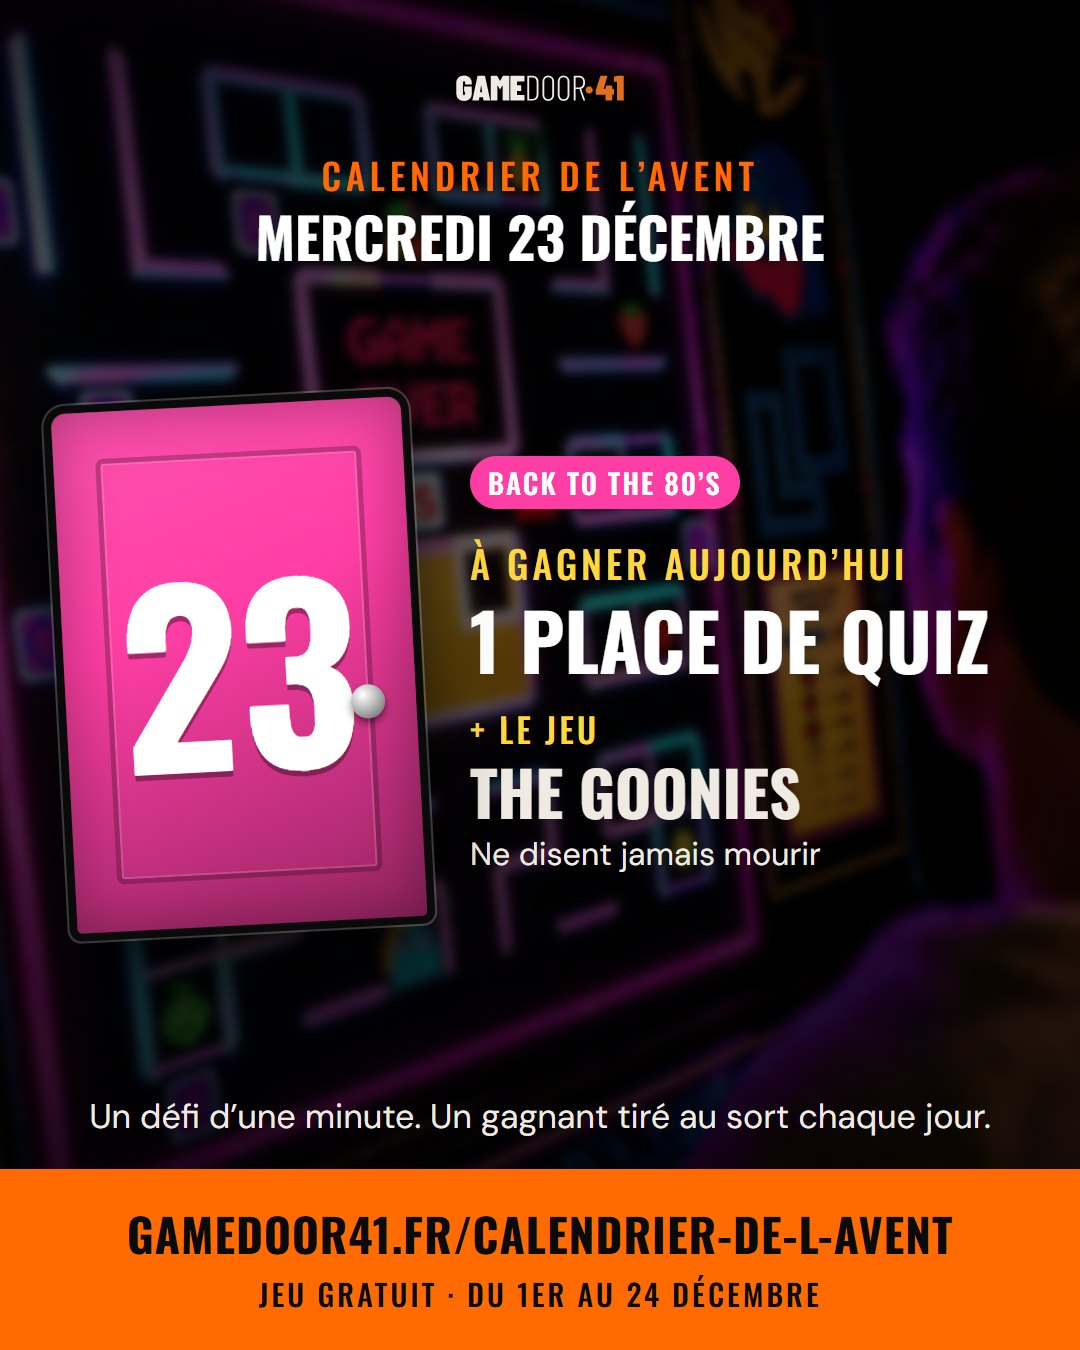
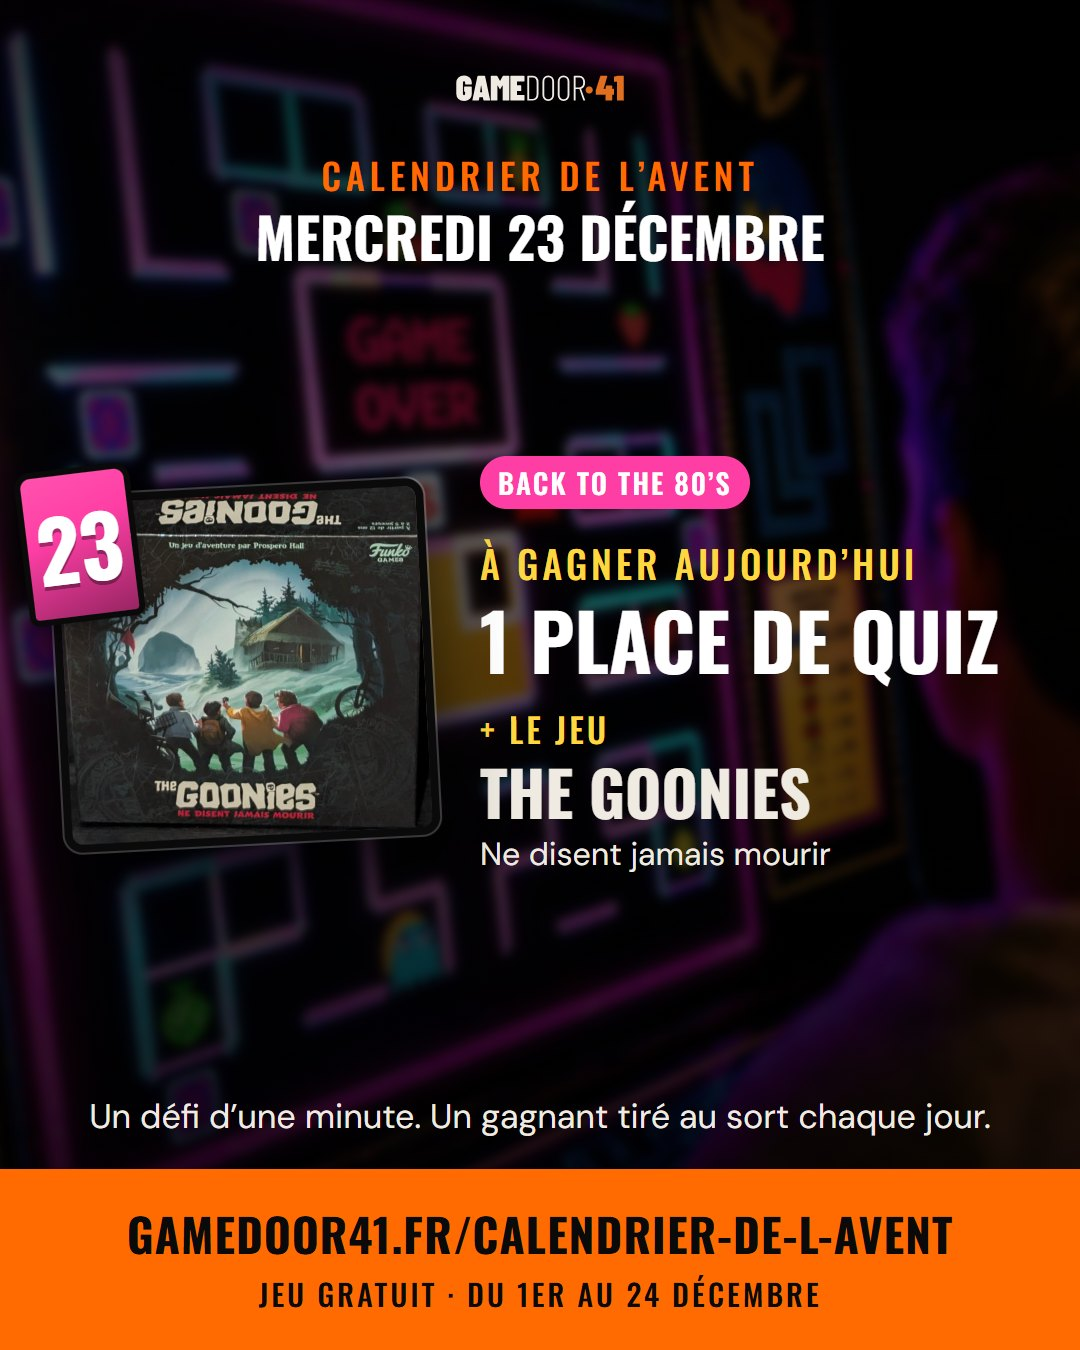
test(avent): les images des jeux et des lots
- img/avent/jeux/ : photos de la boîte (E.T., Retour vers le futur, The Goonies : photos
  maison) et vignettes provisoires pour les 9 autres jeux et la DeLorean
- lots-2026.mjs : image de chaque jeu et de chaque lot (VERSION_IMAGES à augmenter quand on
  remplace une photo : /img/* est en cache immuable)
- page : image dans chaque carte des lots et des jeux, et dans « À gagner aujourd'hui »
- visuels des réseaux sociaux : la boîte du jeu remplace la porte quand on a une vraie photo

Page test seulement : ne pas fusionner.

Changed region(s): [[0.0, 0.28, 0.9167, 0.7156]]

diff --git a/calendrier-de-l-avent/index.html b/calendrier-de-l-avent/index.html
@@ -15,7 +15,7 @@
   <link rel="preconnect" href="https://fonts.gstatic.com" crossorigin>
   <link rel="preload" as="style" href="https://fonts.googleapis.com/css2?family=Oswald:wght@400;500;600;700&family=DM+Sans:ital,wght@0,400;0,500;0,700;1,400&display=swap" onload="this.onload=null;this.rel='stylesheet'"><noscript><link rel="stylesheet" href="https://fonts.googleapis.com/css2?family=Oswald:wght@400;500;600;700&family=DM+Sans:ital,wght@0,400;0,500;0,700;1,400&display=swap"></noscript>
   <link rel="stylesheet" href="/css/style.css?v=2ecc6a2b">
-  <link rel="stylesheet" href="/css/calendrier-avent.css?v=test6">
+  <link rel="stylesheet" href="/css/calendrier-avent.css?v=test7">
 </head>
 <body>
 
@@ -114,25 +114,25 @@
         <!-- lots:debut (écrit par avent-src/ecrire-lots.mjs à partir de avent-src/lots-2026.mjs : ne pas modifier ici) -->
         <div class="section-header"><p class="kicker">Les lots</p><h2>Un gagnant chaque jour, et 12 cadeaux en plus</h2></div>
         <ul class="av-lots">
-          <li class="av-carte av-lot av-lot--orange"><p class="av-lot-quand">Chaque jour</p><h3>1 place de quiz offerte</h3><p>Un gagnant tiré au sort parmi les joueurs du jour, que la réponse soit juste ou non. Une place pour une session de quiz Buzz Your Brain, de 4 à 16 candidats.</p></li>
-          <li class="av-carte av-lot av-lot--or"><p class="av-lot-quand">★ dimanches 6, 13 et 20, jeudi 24 décembre</p><h3>1 place d’escape game offerte</h3><p>Les jours à étoile, la place de quiz devient une place d’escape game, dans la salle de votre choix : Garde à Vue, Psychiatric ou Back to the 80’s.</p></li>
-          <li class="av-carte av-lot av-lot--or"><p class="av-lot-quand">Le grand tirage</p><h3>Une DeLorean radio-commandée</h3><p>La voiture de Retour vers le futur, à piloter à la télécommande. Chaque ticket gagné pendant le mois est une chance de plus.</p></li>
-          <li class="av-carte av-lot av-lot--orange"><p class="av-lot-quand">Les 24 portes ouvertes</p><h3>Une session de quiz complète</h3><p>Un tirage réservé à celles et ceux qui ont ouvert les 24 portes : une session de quiz offerte pour 4 à 16 candidats, émission au choix.</p></li>
+          <li class="av-carte av-lot av-lot--orange"><figure class="av-lot-visuel av-lot-visuel--photo"><img src="/img/quiz/salle-quiz-buzzers-premier-plan-480w.jpg?v=1" alt="La salle du quiz Buzz Your Brain" loading="lazy" decoding="async"></figure><p class="av-lot-quand">Chaque jour</p><h3>1 place de quiz offerte</h3><p>Un gagnant tiré au sort parmi les joueurs du jour, que la réponse soit juste ou non. Une place pour une session de quiz Buzz Your Brain, de 4 à 16 candidats.</p></li>
+          <li class="av-carte av-lot av-lot--or"><figure class="av-lot-visuel av-lot-visuel--photo"><img src="/img/escape/salle-garde-a-vue-barreaux-poste-garde-480w.jpg?v=1" alt="La salle Garde à Vue" loading="lazy" decoding="async"></figure><p class="av-lot-quand">★ dimanches 6, 13 et 20, jeudi 24 décembre</p><h3>1 place d’escape game offerte</h3><p>Les jours à étoile, la place de quiz devient une place d’escape game, dans la salle de votre choix : Garde à Vue, Psychiatric ou Back to the 80’s.</p></li>
+          <li class="av-carte av-lot av-lot--or"><figure class="av-lot-visuel av-lot-visuel--objet"><img src="/img/avent/jeux/delorean.jpg?v=1" alt="La DeLorean radio-commandée" loading="lazy" decoding="async"></figure><p class="av-lot-quand">Le grand tirage</p><h3>Une DeLorean radio-commandée</h3><p>La voiture de Retour vers le futur, à piloter à la télécommande. Chaque ticket gagné pendant le mois est une chance de plus.</p></li>
+          <li class="av-carte av-lot av-lot--orange"><figure class="av-lot-visuel av-lot-visuel--photo"><img src="/img/quiz/salle-quiz-buzz-your-brain-vue-large-480w.jpg?v=1" alt="La salle du quiz" loading="lazy" decoding="async"></figure><p class="av-lot-quand">Les 24 portes ouvertes</p><h3>Une session de quiz complète</h3><p>Un tirage réservé à celles et ceux qui ont ouvert les 24 portes : une session de quiz offerte pour 4 à 16 candidats, émission au choix.</p></li>
         </ul>
         <h3 class="av-jeux-titre">11 jours, un jeu en plus de la place</h3>
         <p class="av-jeux-intro">Ces jours-là, le gagnant du jour repart avec sa place et avec un jeu, choisi dans l’univers de la porte.</p>
         <ol class="av-jeux">
-          <li class="av-jeu av-teinte--gav"><span class="av-jeu-porte" aria-hidden="true">1</span><div><p class="av-jeu-quand">mardi 1er décembre</p><h4>Dossiers Criminels Pocket <span>Qui a tué Isabella Vega ?</span></h4><p>Une enquête de poche : des indices, des suspects, un coupable à démasquer.</p><p class="av-jeu-place">Avec 1 place de quiz</p></div></li>
-          <li class="av-jeu av-teinte--psy"><span class="av-jeu-porte" aria-hidden="true">4</span><div><p class="av-jeu-quand">vendredi 4 décembre</p><h4>Black Stories</h4><p>50 énigmes macabres à résoudre en posant des questions. Réponses permises : oui ou non.</p><p class="av-jeu-place">Avec 1 place de quiz</p></div></li>
-          <li class="av-jeu av-teinte--quiz"><span class="av-jeu-porte" aria-hidden="true">6</span><div><p class="av-jeu-quand">★ dimanche 6 décembre</p><h4>Esquissé ? <span>Version 6 joueurs</span></h4><p>Le téléphone arabe en dessin : on dessine, on devine, et tout dérape.</p><p class="av-jeu-place">Avec 1 place d’escape game</p></div></li>
-          <li class="av-jeu av-teinte--80s"><span class="av-jeu-porte" aria-hidden="true">7</span><div><p class="av-jeu-quand">lundi 7 décembre</p><h4>E.T. l’Extra-Terrestre</h4><p>Jeu d’aventure coopératif : aidez E.T. à rentrer chez lui avant les agents. 2 à 4 joueurs, dès 10 ans, 30 minutes.</p><p class="av-jeu-place">Avec 1 place de quiz</p></div></li>
-          <li class="av-jeu av-teinte--quiz"><span class="av-jeu-porte" aria-hidden="true">10</span><div><p class="av-jeu-quand">jeudi 10 décembre</p><h4>Snort Funny <span>Le jeu « ingroinyable »</span></h4><p>Un jeu d’ambiance pour faire rire toute la table.</p><p class="av-jeu-place">Avec 1 place de quiz</p></div></li>
-          <li class="av-jeu av-teinte--gav"><span class="av-jeu-porte" aria-hidden="true">13</span><div><p class="av-jeu-quand">★ dimanche 13 décembre</p><h4>Sous Scellés <span>La Fille du Troisième</span></h4><p>Un dossier d’enquête à ouvrir chez vous : à vous de résoudre l’affaire.</p><p class="av-jeu-place">Avec 1 place d’escape game</p></div></li>
-          <li class="av-jeu av-teinte--80s"><span class="av-jeu-porte" aria-hidden="true">15</span><div><p class="av-jeu-quand">mardi 15 décembre</p><h4>Retour vers le futur</h4><p>Jeu d’aventure coopératif : faites monter la DeLorean à 88 miles à l’heure avant l’éclair. 2 à 4 joueurs, dès 10 ans, 50 minutes.</p><p class="av-jeu-place">Avec 1 place de quiz</p></div></li>
-          <li class="av-jeu av-teinte--psy"><span class="av-jeu-porte" aria-hidden="true">16</span><div><p class="av-jeu-quand">mercredi 16 décembre</p><h4>Scream, le jeu</h4><p>Jeu de société coopératif : faites équipe pour échapper au tueur masqué.</p><p class="av-jeu-place">Avec 1 place de quiz</p></div></li>
-          <li class="av-jeu av-teinte--quiz"><span class="av-jeu-porte" aria-hidden="true">18</span><div><p class="av-jeu-quand">vendredi 18 décembre</p><h4>Longueur d’onde</h4><p>Jeu d’ambiance en équipes : êtes-vous sur la même longueur d’onde que vos amis ?</p><p class="av-jeu-place">Avec 1 place de quiz</p></div></li>
-          <li class="av-jeu av-teinte--psy"><span class="av-jeu-porte" aria-hidden="true">20</span><div><p class="av-jeu-quand">★ dimanche 20 décembre</p><h4>Chucky, le jeu</h4><p>Jeu d’horreur coopératif : tous ensemble contre la poupée.</p><p class="av-jeu-place">Avec 1 place d’escape game</p></div></li>
-          <li class="av-jeu av-teinte--80s"><span class="av-jeu-porte" aria-hidden="true">23</span><div><p class="av-jeu-quand">mercredi 23 décembre</p><h4>The Goonies <span>Ne disent jamais mourir</span></h4><p>Jeu d’aventure : un joueur dirige les ennemis, les autres incarnent les Goonies. 2 à 5 joueurs, dès 12 ans, 50 minutes.</p><p class="av-jeu-place">Avec 1 place de quiz</p></div></li>
+          <li class="av-jeu av-teinte--gav"><figure class="av-jeu-visuel"><img src="/img/avent/jeux/dossiers-criminels.jpg?v=1" alt="La boîte du jeu Dossiers Criminels Pocket" loading="lazy" decoding="async"><span class="av-jeu-porte" aria-hidden="true">1</span></figure><div><p class="av-jeu-quand">mardi 1er décembre</p><h4>Dossiers Criminels Pocket <span>Qui a tué Isabella Vega ?</span></h4><p>Une enquête de poche : des indices, des suspects, un coupable à démasquer.</p><p class="av-jeu-place">Avec 1 place de quiz</p></div></li>
+          <li class="av-jeu av-teinte--psy"><figure class="av-jeu-visuel"><img src="/img/avent/jeux/black-stories.jpg?v=1" alt="La boîte du jeu Black Stories" loading="lazy" decoding="async"><span class="av-jeu-porte" aria-hidden="true">4</span></figure><div><p class="av-jeu-quand">vendredi 4 décembre</p><h4>Black Stories</h4><p>50 énigmes macabres à résoudre en posant des questions. Réponses permises : oui ou non.</p><p class="av-jeu-place">Avec 1 place de quiz</p></div></li>
+          <li class="av-jeu av-teinte--quiz"><figure class="av-jeu-visuel"><img src="/img/avent/jeux/esquisse.jpg?v=1" alt="La boîte du jeu Esquissé ?" loading="lazy" decoding="async"><span class="av-jeu-porte" aria-hidden="true">6</span></figure><div><p class="av-jeu-quand">★ dimanche 6 décembre</p><h4>Esquissé ? <span>Version 6 joueurs</span></h4><p>Le téléphone arabe en dessin : on dessine, on devine, et tout dérape.</p><p class="av-jeu-place">Avec 1 place d’escape game</p></div></li>
+          <li class="av-jeu av-teinte--80s"><figure class="av-jeu-visuel"><img src="/img/avent/jeux/et.jpg?v=1" alt="La boîte du jeu E.T. l’Extra-Terrestre" loading="lazy" decoding="async"><span class="av-jeu-porte" aria-hidden="true">7</span></figure><div><p class="av-jeu-quand">lundi 7 décembre</p><h4>E.T. l’Extra-Terrestre</h4><p>Jeu d’aventure coopératif : aidez E.T. à rentrer chez lui avant les agents. 2 à 4 joueurs, dès 10 ans, 30 minutes.</p><p class="av-jeu-place">Avec 1 place de quiz</p></div></li>
+          <li class="av-jeu av-teinte--quiz"><figure class="av-jeu-visuel"><img src="/img/avent/jeux/snort-funny.jpg?v=1" alt="La boîte du jeu Snort Funny" loading="lazy" decoding="async"><span class="av-jeu-porte" aria-hidden="true">10</span></figure><div><p class="av-jeu-quand">jeudi 10 décembre</p><h4>Snort Funny <span>Le jeu « ingroinyable »</span></h4><p>Un jeu d’ambiance pour faire rire toute la table.</p><p class="av-jeu-place">Avec 1 place de quiz</p></div></li>
+          <li class="av-jeu av-teinte--gav"><figure class="av-jeu-visuel"><img src="/img/avent/jeux/sous-scelles.jpg?v=1" alt="La boîte du jeu Sous Scellés : La Fille du Troisième" loading="lazy" decoding="async"><span class="av-jeu-porte" aria-hidden="true">13</span></figure><div><p class="av-jeu-quand">★ dimanche 13 décembre</p><h4>Sous Scellés <span>La Fille du Troisième</span></h4><p>Un dossier d’enquête à ouvrir chez vous : à vous de résoudre l’affaire.</p><p class="av-jeu-place">Avec 1 place d’escape game</p></div></li>
+          <li class="av-jeu av-teinte--80s"><figure class="av-jeu-visuel"><img src="/img/avent/jeux/retour-vers-le-futur.jpg?v=1" alt="La boîte du jeu Retour vers le futur" loading="lazy" decoding="async"><span class="av-jeu-porte" aria-hidden="true">15</span></figure><div><p class="av-jeu-quand">mardi 15 décembre</p><h4>Retour vers le futur</h4><p>Jeu d’aventure coopératif : faites monter la DeLorean à 88 miles à l’heure avant l’éclair. 2 à 4 joueurs, dès 10 ans, 50 minutes.</p><p class="av-jeu-place">Avec 1 place de quiz</p></div></li>
+          <li class="av-jeu av-teinte--psy"><figure class="av-jeu-visuel"><img src="/img/avent/jeux/scream.jpg?v=1" alt="La boîte du jeu Scream, le jeu" loading="lazy" decoding="async"><span class="av-jeu-porte" aria-hidden="true">16</span></figure><div><p class="av-jeu-quand">mercredi 16 décembre</p><h4>Scream, le jeu</h4><p>Jeu de société coopératif : faites équipe pour échapper au tueur masqué.</p><p class="av-jeu-place">Avec 1 place de quiz</p></div></li>
+          <li class="av-jeu av-teinte--quiz"><figure class="av-jeu-visuel"><img src="/img/avent/jeux/longueur-d-onde.jpg?v=1" alt="La boîte du jeu Longueur d’onde" loading="lazy" decoding="async"><span class="av-jeu-porte" aria-hidden="true">18</span></figure><div><p class="av-jeu-quand">vendredi 18 décembre</p><h4>Longueur d’onde</h4><p>Jeu d’ambiance en équipes : êtes-vous sur la même longueur d’onde que vos amis ?</p><p class="av-jeu-place">Avec 1 place de quiz</p></div></li>
+          <li class="av-jeu av-teinte--psy"><figure class="av-jeu-visuel"><img src="/img/avent/jeux/chucky.jpg?v=1" alt="La boîte du jeu Chucky, le jeu" loading="lazy" decoding="async"><span class="av-jeu-porte" aria-hidden="true">20</span></figure><div><p class="av-jeu-quand">★ dimanche 20 décembre</p><h4>Chucky, le jeu</h4><p>Jeu d’horreur coopératif : tous ensemble contre la poupée.</p><p class="av-jeu-place">Avec 1 place d’escape game</p></div></li>
+          <li class="av-jeu av-teinte--80s"><figure class="av-jeu-visuel"><img src="/img/avent/jeux/goonies.jpg?v=1" alt="La boîte du jeu The Goonies" loading="lazy" decoding="async"><span class="av-jeu-porte" aria-hidden="true">23</span></figure><div><p class="av-jeu-quand">mercredi 23 décembre</p><h4>The Goonies <span>Ne disent jamais mourir</span></h4><p>Jeu d’aventure : un joueur dirige les ennemis, les autres incarnent les Goonies. 2 à 5 joueurs, dès 12 ans, 50 minutes.</p><p class="av-jeu-place">Avec 1 place de quiz</p></div></li>
         </ol>
         <p class="av-note">Le tirage du jour se fait parmi les portes ouvertes le jour même. Le grand tirage et le tirage des 24 portes sont annoncés le 25 décembre à midi. Tickets : 1 par porte ouverte le jour même, 1 de plus si la réponse est juste, 1 pour une porte ouverte en retard. Places offertes valables 12 mois. Jeux à retirer à l’accueil, à Mondeville, avant le 28 février 2027. Lots non échangeables et non remboursables.</p>
         <!-- lots:fin -->
@@ -256,6 +256,6 @@
   </footer>
 
   <script defer src="/js/main.js?v=5d2c59a3"></script>
-  <script defer src="/js/calendrier-avent.js?v=test6"></script>
+  <script defer src="/js/calendrier-avent.js?v=test7"></script>
 </body>
 </html>

diff --git a/js/calendrier-avent.js b/js/calendrier-avent.js
@@ -203,7 +203,9 @@
     var quandLot = auj < 1 ? 'À gagner dès le 1er : ' : auj > 24 ? null : !repJour ? 'À gagner aujourd’hui : ' : repJour.leJour ? 'Au tirage de demain midi : ' : null;
     bandeau.appendChild(el('p', { class: 'av-joueur-msg' }, [
       moi ? el('strong', { text: 'Bonjour ' + moi.prenom + '. ' }) : null, message,
-      quandLot && porteLot && porteLot.lot ? el('span', { class: 'av-joueur-lot' }, [el('i', { html: ICONES.cadeau }), el('b', { text: quandLot }), porteLot.lot]) : null
+      quandLot && porteLot && porteLot.lot ? el('span', { class: 'av-joueur-lot' + (porteLot.image ? ' a-image' : '') }, porteLot.image
+        ? [el('img', { class: 'av-joueur-lot-img', src: porteLot.image, alt: '', width: '54', height: '54', decoding: 'async' }), el('span', {}, [el('b', { text: quandLot }), porteLot.lot])]
+        : [el('i', { html: ICONES.cadeau }), el('b', { text: quandLot }), porteLot.lot]) : null
     ]));
     if (moi) bandeau.appendChild(el('p', { class: 'av-joueur-compte' }, [
       el('span', {}, [el('b', { text: String(nb) }), (nb > 1 ? 'portes ouvertes' : 'porte ouverte') + ' sur 24']),
@@ -257,7 +259,11 @@
     ]);
   }
   function bandeLot(p, quand) {
-    return p.lot ? el('p', { class: 'av-lot-jour' }, [el('i', { html: ICONES.cadeau }), el('span', {}, [el('b', { text: quand }), p.lot])]) : null;
+    if (!p.lot) return null;
+    return el('p', { class: 'av-lot-jour' + (p.image ? ' a-image' : '') }, [
+      p.image ? el('img', { class: 'av-lot-jour-img', src: p.image, alt: '', width: '54', height: '54', decoding: 'async' }) : el('i', { html: ICONES.cadeau }),
+      el('span', {}, [el('b', { text: quand }), p.lot])
+    ]);
   }
   function actions(noeuds, classe) { return el('div', { class: 'av-actions' + (classe ? ' ' + classe : '') }, noeuds); }
   function boutonFermer(texte) { return actions([el('button', { type: 'button', class: 'btn btn-outline', text: texte || 'Fermer', onclick: fermer })]); }

diff --git a/css/calendrier-avent.css b/css/calendrier-avent.css
@@ -317,3 +317,19 @@ html.av-fige, html.av-fige body { overflow:hidden; }
 .av-piege { position:absolute; left:-9999px; width:1px; height:1px; overflow:hidden; }
 .av-ecrire-ok { margin:4px 0 0; padding:12px 14px; background:#10301c; border-left:4px solid #1f8f4a; border-radius:0 8px 8px 0; color:#fff; }
 @media (max-width:640px) { .av-ecrire { padding:18px 14px; } }
+
+/* ---------- les images des lots et des jeux ---------- */
+.av-lot { display:flex; flex-direction:column; padding-top:0; overflow:hidden; }
+.av-lot-visuel { margin:0 -20px 16px; height:160px; background:#0b0b0b; overflow:hidden; }
+.av-lot-visuel img { display:block; width:100%; height:100%; object-fit:cover; }
+.av-lot-visuel--objet { background:#f4f1ea; }
+.av-lot-visuel--objet img { object-fit:contain; padding:12px; }
+.av-jeu { align-items:stretch; }
+.av-jeu-visuel { position:relative; flex:none; width:118px; min-height:130px; margin:0; border-radius:8px; background:#f4f1ea; display:flex; align-items:center; justify-content:center; padding:6px; }
+.av-jeu-visuel img { display:block; max-width:100%; max-height:150px; width:auto; height:auto; object-fit:contain; border-radius:3px; }
+.av-jeu-visuel .av-jeu-porte { position:absolute; top:-8px; left:-8px; width:34px; height:46px; font-size:1.15rem; box-shadow:0 0 0 2px #0a0a0a, inset 0 0 0 2px rgba(0,0,0,.3); }
+@media (max-width:640px) { .av-jeu-visuel { width:104px; min-height:118px; } .av-jeu-visuel img { max-height:132px; } .av-lot-visuel { height:150px; } }
+@media (max-width:350px) { .av-jeu-visuel { width:88px; } }
+.av-lot-jour-img, .av-joueur-lot-img { flex:none; display:block; width:54px; height:54px; object-fit:contain; background:#f4f1ea; border-radius:6px; padding:3px; }
+.av-lot-jour.a-image { align-items:center; gap:12px; }
+.av-joueur-lot.a-image { display:flex; align-items:center; gap:12px; }
